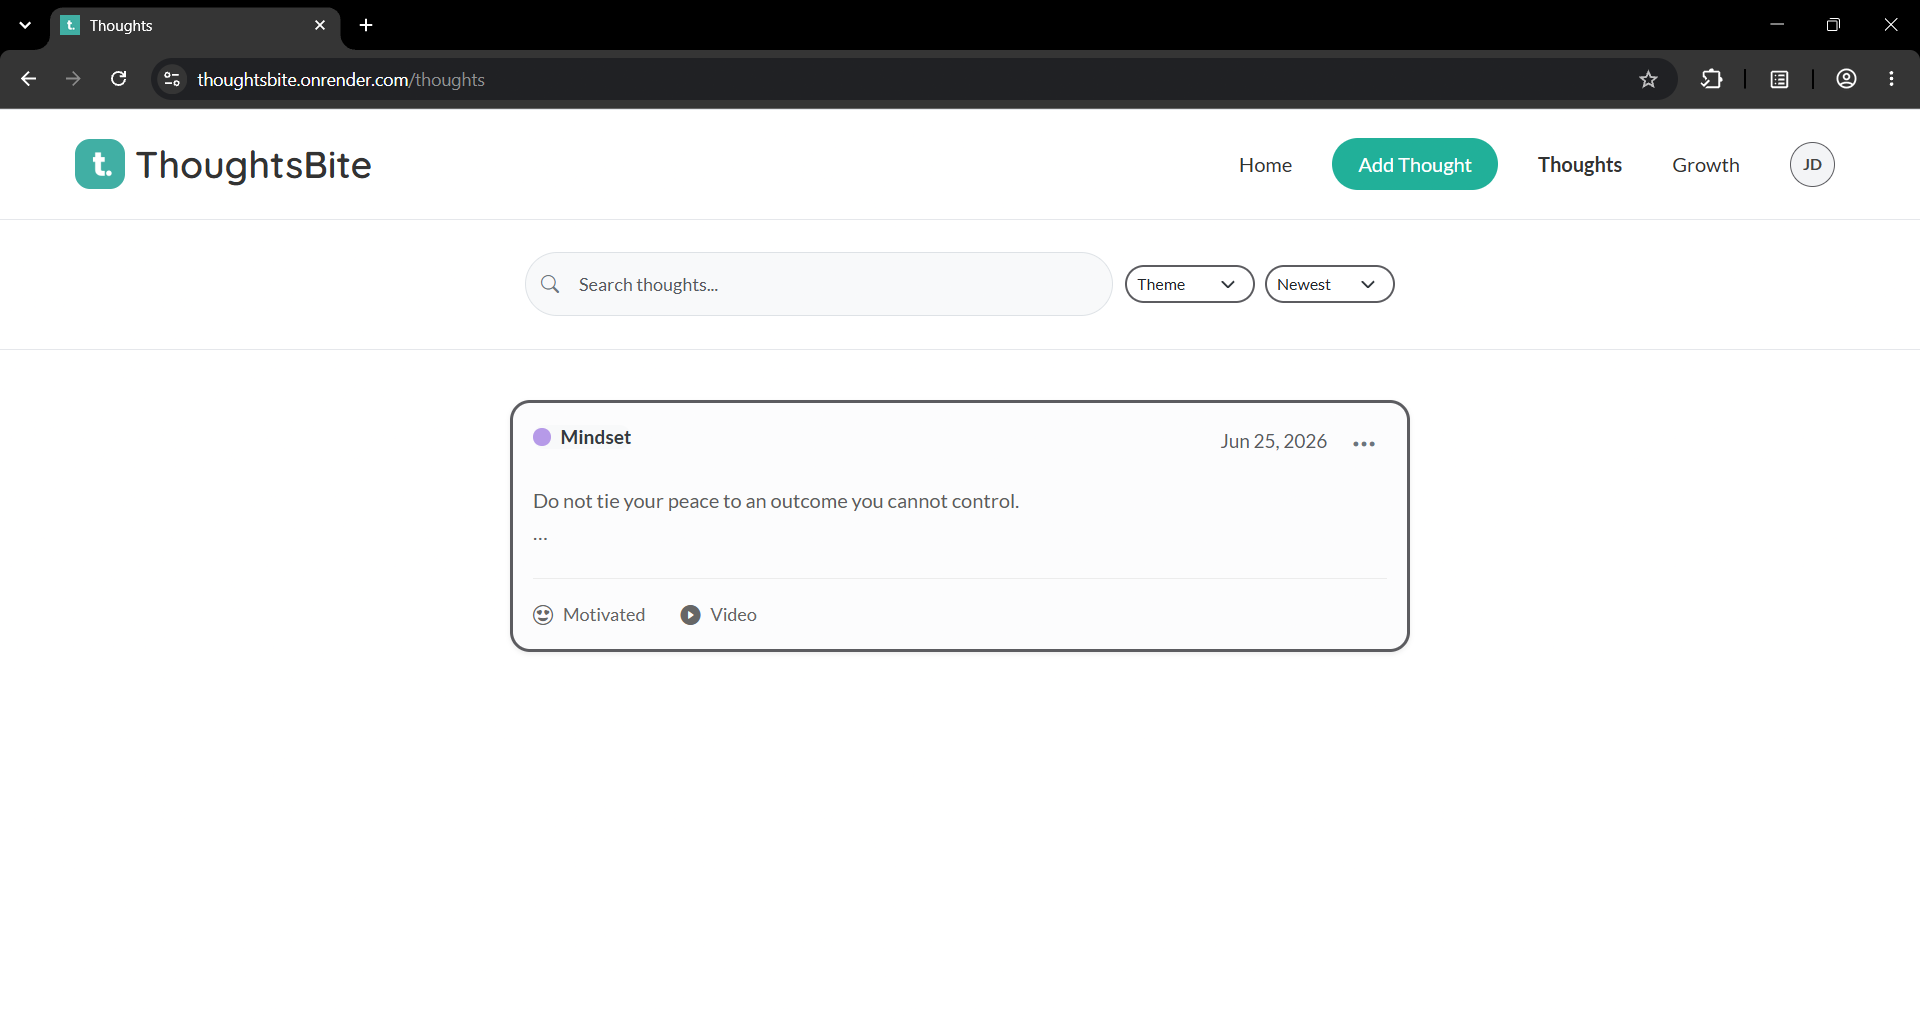
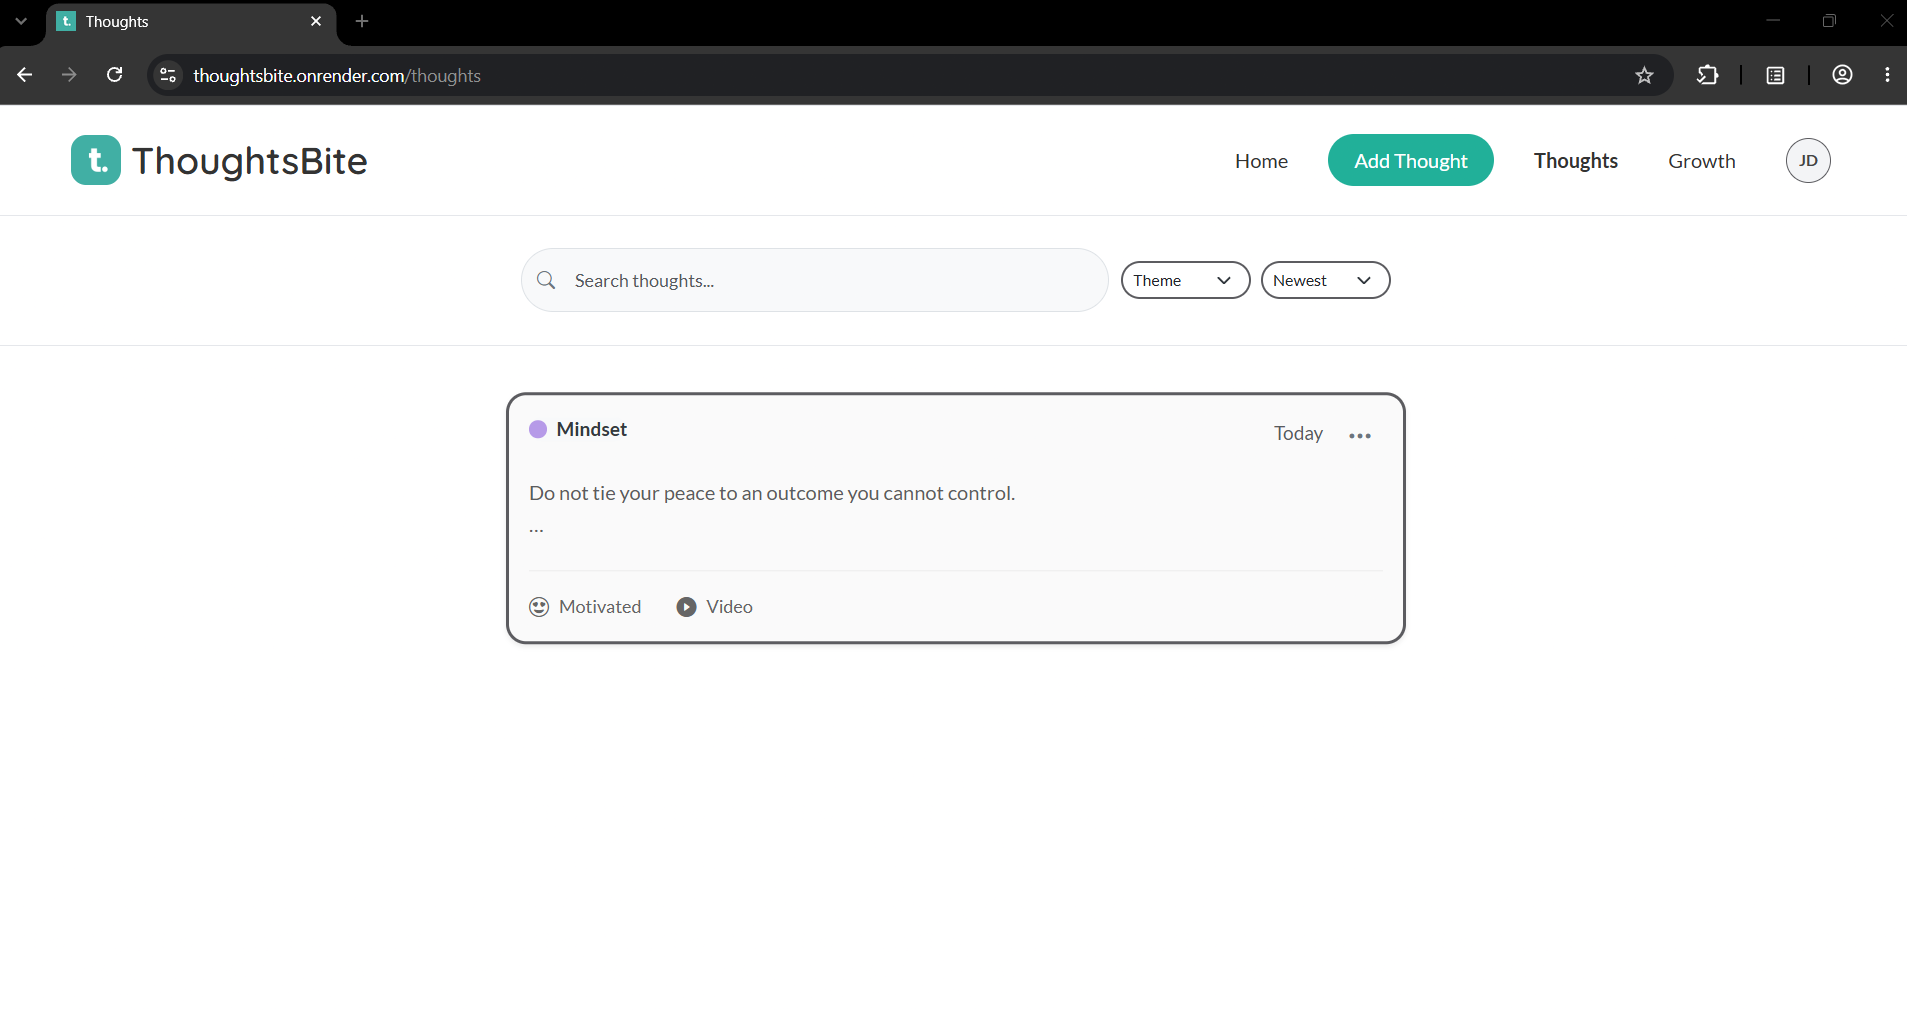
ud readmee

diff --git a/README.md b/README.md
@@ -93,6 +93,6 @@ ThoughtsBite is deployed using Render, with MongoDB Atlas as its database provid
 
 ## Author
 
-Developed by **[Lalaine Madrona]**
+Developed by **Lalaine Madrona**
 
 [GitHub Profile](https://github.com/itslalaine)
